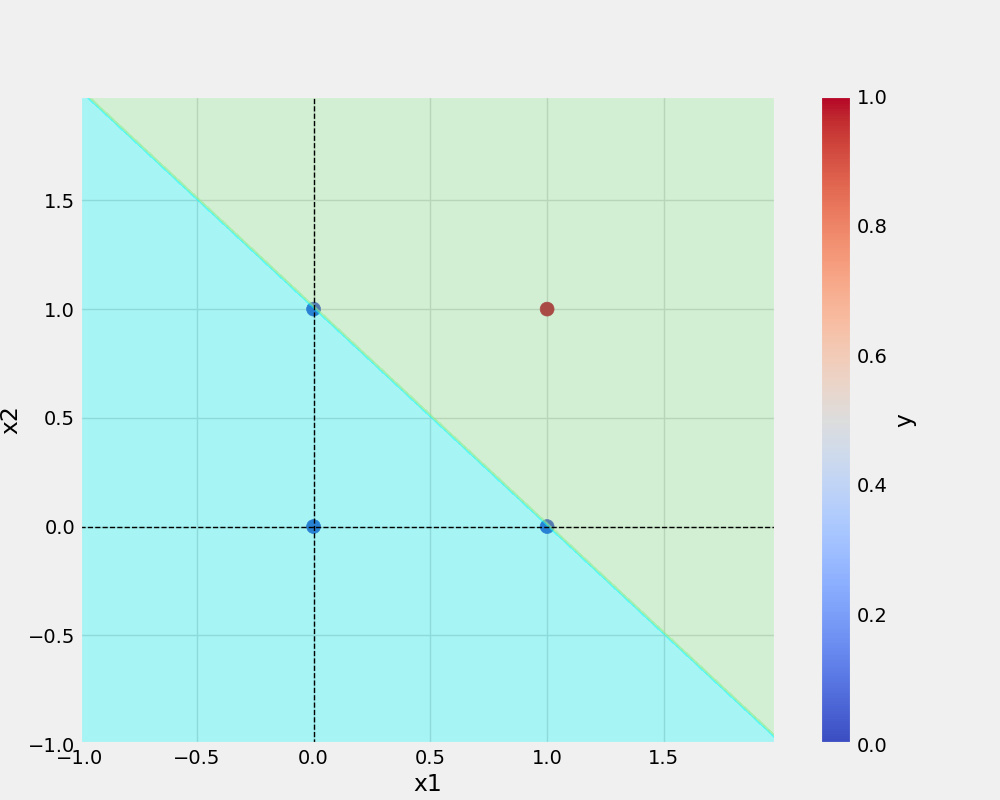
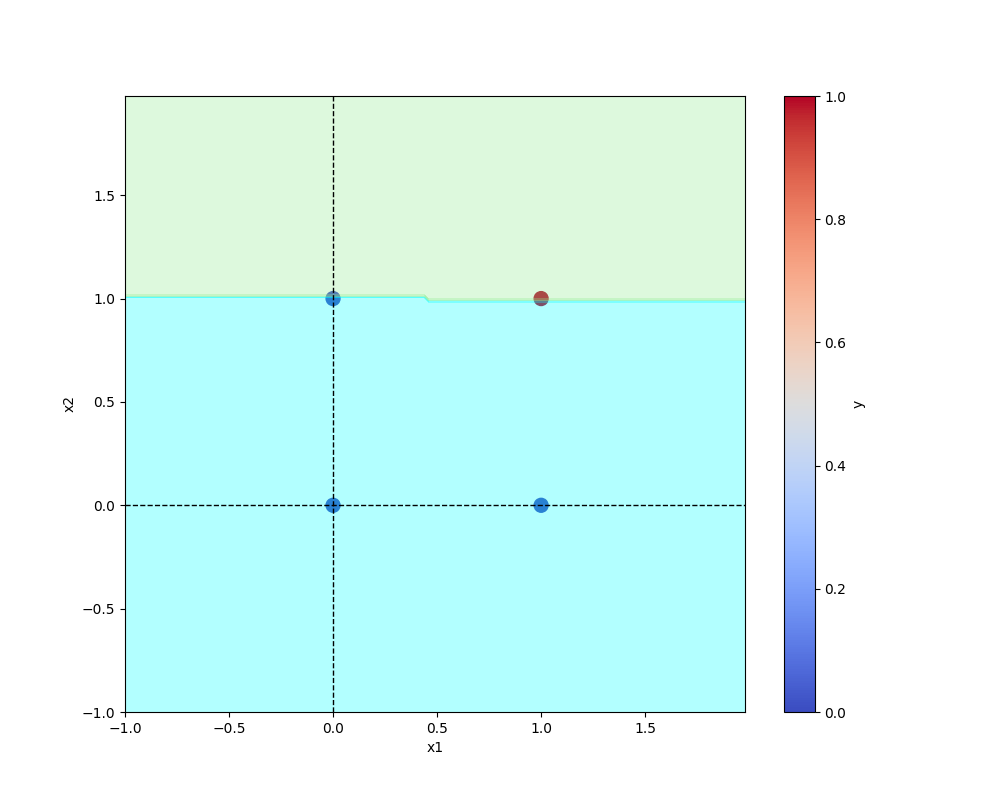
modular implementation of perceptron

Changed region(s): [[0.0, 0.0938, 0.899, 1.0], [0.899, 0.5, 0.93, 0.5312]]

diff --git a/utils/model.py b/utils/model.py
@@ -1,0 +1,76 @@
+import numpy as np
+import joblib 
+import os
+
+
+class Perceptron:
+    def __init__(self,eta:float=None,epochs: int=None):
+        self.weights = np.random.randn(3)*1e-4  # small random weight
+        is_training = (eta is not None) and (epochs is not None)
+        if is_training:
+            print(f"initial weights before weights: \n{self.weights}")
+        
+        self.eta = eta
+        self.epochs =epochs
+        
+    
+    def _z_outcome(self,inputs,weights):
+        return np.dot(inputs,weights)
+    
+    
+    def activation_function(self,z):
+        return np.where(z>0,1,0)
+    
+    def fit(self,X,y):
+        self.X=X
+        self.y=y
+        
+        X_with_bias = np.c_[self.X,-np.ones((len(self.X),1))]
+        print(f"X with bias: \n{X_with_bias}")
+        
+        for epoch in range(self.epochs):
+            print("--"*10)
+            print(f"for  epoch >> {epoch}")
+            print("--"*10)
+            
+            z=self._z_outcome(X_with_bias,self.weights)
+            y_hat = self.activation_function(z)
+            print(f"predicted value after forward pass:  \n{y_hat}")
+            
+            self.error = self.y - y_hat
+            print(f"error: \n{self.error}")
+            
+            self.weights = self.weights + self.eta * np.dot(X_with_bias.T,self.error)
+            print(f"updated weights after epoch: {epoch+1}/{self.epochs}: \n {self.weights}")
+            print("##"*10)
+    
+    
+    def predict(self,test_input):
+        X_with_bias = np.c_[test_input,-np.ones((len(test_input),1))]
+        z = self._z_outcome(X_with_bias,self.weights)
+        return self.activation_function(z)
+        
+    
+    def total_loss(self):
+        total_loss = np.sum(self.error)
+        print(f"\n total loss: {total_loss}\n")
+        return total_loss
+        
+    
+    def _create_dir_return_path(self,model_dir,filename):
+        os.makedirs(model_dir,exist_ok=True)
+        return os.path.join(model_dir,filename)
+    
+    def save(self,filename,model_dir=None):
+        if model_dir is not None:
+            model_file_path = self._create_dir_return_path(model_dir,filename)
+            joblib.dump(self,model_file_path)
+        else:
+            model_file_path =self._create_dir_return_path("model",filename)
+            joblib.dump(self,model_file_path)
+    
+    def load(self,filepath):
+        return joblib.load(filepath)
+    
+    
+    

diff --git a/utils/all_utils.py b/utils/all_utils.py
@@ -1,0 +1,63 @@
+import pandas as pd
+import os
+import matplotlib.pyplot as plt
+from matplotlib.colors import ListedColormap
+import numpy as np
+
+
+
+def prepare_data(df):
+    X=df.drop("y",axis=1)
+    
+    y = df['y']
+    
+    return X,y
+
+
+def save_plot(df,model,filename="plot.png",plot_dir = "plots"):
+    
+    def _create_base_plot(df):
+        df.plot(kind="scatter",x="x1",y="x2",c="y",s=100,cmap="coolwarm")
+        plt.axhline(y=0,color="black",linestyle="--",linewidth=1)
+        plt.axvline(x=0,color="black",linestyle="--",linewidth=1)
+        
+        figure = plt.gcf()
+        figure.set_size_inches(10,8)
+        
+        
+    
+    def _plot_decision_region(X,y,classifier,resolution=0.02):
+        colors=("cyan","lightgreen")
+        cmap = ListedColormap(colors)
+        X=X.values # as an array
+        x1=X[:,0]
+        x2=X[:,1]
+        
+        x1_min,x1_max = x1.min()-1,x1.max()+1
+        x2_min,x2_max = x2.min()-1,x2.max()+1
+        
+        xx1,xx2 = np.meshgrid(np.arange(x1_min,x1_max,resolution),
+                             np.arange(x2_min,x2_max,resolution))
+        
+        y_hat = classifier.predict(np.array([xx1.ravel(),xx2.ravel()]).T)
+        y_hat = y_hat.reshape(xx1.shape)
+        
+        plt.contourf(xx1,xx2,y_hat,alpha=0.3,cmap=cmap)
+        plt.xlim(xx1.min(),xx1.max())
+        plt.ylim(xx2.min(),xx2.max())
+        
+        plt.plot()
+        
+        
+    
+    X,y = prepare_data(df)
+    
+    _create_base_plot(df)
+    _plot_decision_region(X,y,model)
+    
+    os.makedirs(plot_dir,exist_ok=True)
+    plot_path = os.path.join(plot_dir,filename)
+    plt.savefig(plot_path)
+    
+    
+    

diff --git a/and.py b/and.py
@@ -1,0 +1,37 @@
+import pandas as pd
+import numpy as np
+from utils.all_utils import prepare_data,save_plot
+from utils.model import Perceptron
+
+def main(data, modelName,plotName,eta,epochs):
+    df_AND = pd.DataFrame(data)
+    X,y = prepare_data(df_AND)
+    model_and = Perceptron(eta=eta,epochs=epochs)
+    model_and.fit(X,y)
+
+    _ = model_and.total_loss()
+
+    model_and.save(filename=modelName,model_dir="model")
+
+    save_plot(df_AND,model_and,filename=plotName)
+
+
+if __name__ == "__main__": # it creates an entry point
+    AND = {
+    "x1":[0,0,1,1],
+    "x2":[0,1,0,1],
+    "y":[0,0,0,1]
+    }
+    ETA = 0.1
+    EPOCHS = 10
+    main(data=AND,modelName="and.model",plotName= "and.png",eta=ETA,epochs=EPOCHS)
+
+
+
+
+
+
+
+
+
+

diff --git a/or.py b/or.py
@@ -1,0 +1,37 @@
+import pandas as pd
+import numpy as np
+from utils.all_utils import prepare_data,save_plot
+from utils.model import Perceptron
+
+def main(data, modelName,plotName,eta,epochs):
+    df_OR = pd.DataFrame(data)
+    X,y = prepare_data(df_OR)
+    model_or = Perceptron(eta=eta,epochs=epochs)
+    model_or.fit(X,y)
+
+    _ = model_or.total_loss()
+
+    model_or.save(filename=modelName,model_dir="model")
+
+    save_plot(df_OR,model_or,filename=plotName)
+
+
+if __name__ == "__main__": # it creates an entry point
+    OR = {
+    "x1":[0,0,1,1],
+    "x2":[0,1,0,1],
+    "y":[0,1,1,1]
+    }
+    ETA = 0.1
+    EPOCHS = 10
+    main(data=OR,modelName="or.model",plotName= "or.png",eta=ETA,epochs=EPOCHS)
+
+
+
+
+
+
+
+
+
+
